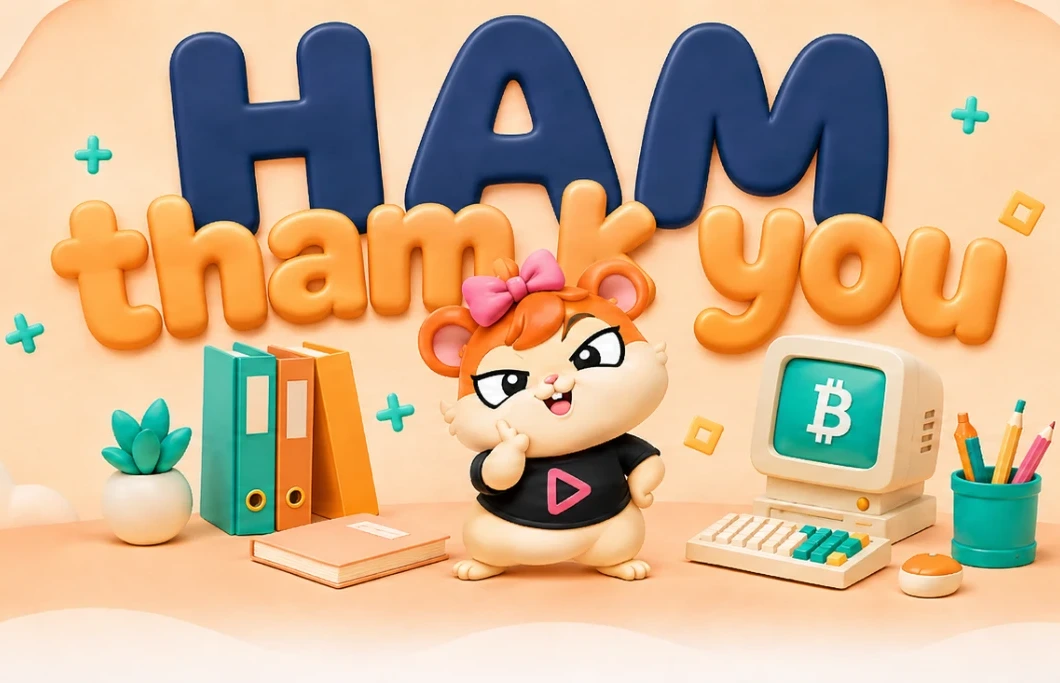
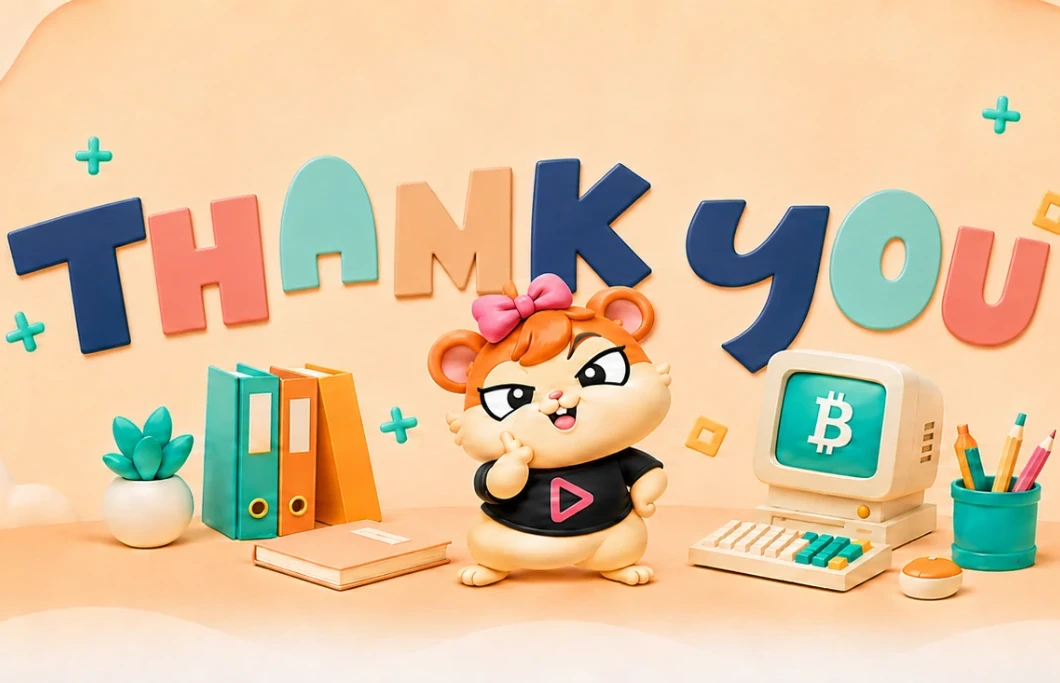
Swap the hero to the corrected artwork and keep the note on one line
The new hero spells the wordmark correctly. Confirmed by cropping the
letters at full resolution and reading them rather than trusting the
thumbnail: the letter after "THA" has two uprights and a diagonal, so it
is an N. The version that shipped since d8fc3d6 read "thamk you", which
was flagged at the time and accepted deliberately; this retires it.

Same 2000x683 as the file it replaces, so the width/height attributes on
both the <source> and the <img> are already correct and no layout shift is
introduced. The mobile crop is regenerated from the same source at the
established 1060px centre crop.

Alt text drops "HAM" — the new art reads "THANK YOU" without it, and alt
should describe what is actually there.

Separately, the Discord note now holds one line. It runs 427px at 15.5px
while a 390px phone offers 338px inside the page and pill padding, so the
size scales with the viewport (3.1vw is the slope that fits) instead of
wrapping. Below 376px it wraps again: holding one line there needs under
11.5px, which stops being readable, and at 360 it still overflowed the
page by 2px. Wrapping is the better failure of those two.

Verified at 1440, 768, 430, 390, 375, 360 and 320: one line from 376 up,
two below, no horizontal overflow at any of them. Hero loads its own file
per breakpoint with natural dimensions matching the markup. Harness passes.

Claude-Session: https://claude.ai/code/session_013kTtF1icznq9uztL5hnTJk

diff --git a/css/style.css b/css/style.css
@@ -1067,17 +1067,21 @@ img { display: block; max-width: 100%; height: auto; }
    Inline, the emphasis straddled the wrap and read as one long sentence;
    separated, it reads as the note it is. Not a warning banner though — the
    ink-on-cream keeps it informative rather than alarming. */
+/* One unbroken line. The text runs 427px at 15.5px while a 390px phone only
+   offers 338px inside the page and pill padding, so the size scales with the
+   viewport to keep it on one line instead of wrapping. 3.1vw is the slope
+   that lands just inside that budget. */
 .checkin__note {
-  font-size: 15.5px;
+  font-size: clamp(11.5px, 3.1vw, 15.5px);
   font-weight: 600;
   color: var(--ink);
   background: var(--warm-ivory);
   border-radius: var(--radius-sm);
-  padding: 9px 16px;
+  padding: 9px 14px;
   margin: 12px auto 18px;
-  max-width: 44ch;
   line-height: 1.5;
-  text-wrap: pretty;
+  white-space: nowrap;
+  display: inline-block;
 }
 
 .checkin__cta { display: flex; gap: 12px; justify-content: center; flex-wrap: wrap; }
@@ -1174,6 +1178,14 @@ img { display: block; max-width: 100%; height: auto; }
   .lootbox__halo { width: 250px; height: 250px; margin: -125px 0 0 -125px; }
   .is-compact .lootbox { width: 146px; height: 144px; }
   .checkin__title { font-size: 23px; }
+}
+
+/* At 375px and below, one line would need to drop under ~11.5px to fit, and
+   at that point it stops being readable — and it still overflowed by 2px at
+   360. Wrapping is the better failure here, so the single line is a promise
+   kept from 376px up, which covers every current phone but the smallest. */
+@media (max-width: 375px) {
+  .checkin__note { white-space: normal; font-size: 13px; max-width: 40ch; }
 }
 
 /* ── ACTIVITY CARD ── */

diff --git a/thankyou.html b/thankyou.html
@@ -26,7 +26,7 @@
              wordmark and mascot stay large. Both run full-bleed. -->
         <source media="(min-width: 769px)" srcset="assets/thankyou-hero-wide.webp" width="2000" height="683">
         <img class="hero__art" src="assets/thankyou-hero-mobile.webp" width="1060" height="683"
-             alt="HAM thank you — มาสคอตแฮมสเตอร์ของ HamsterHub ยืนอยู่กลางโต๊ะทำงาน">
+             alt="Thank you — มาสคอตแฮมสเตอร์ของ HamsterHub ยืนอยู่กลางโต๊ะทำงาน">
       </picture>
     </div>
 
